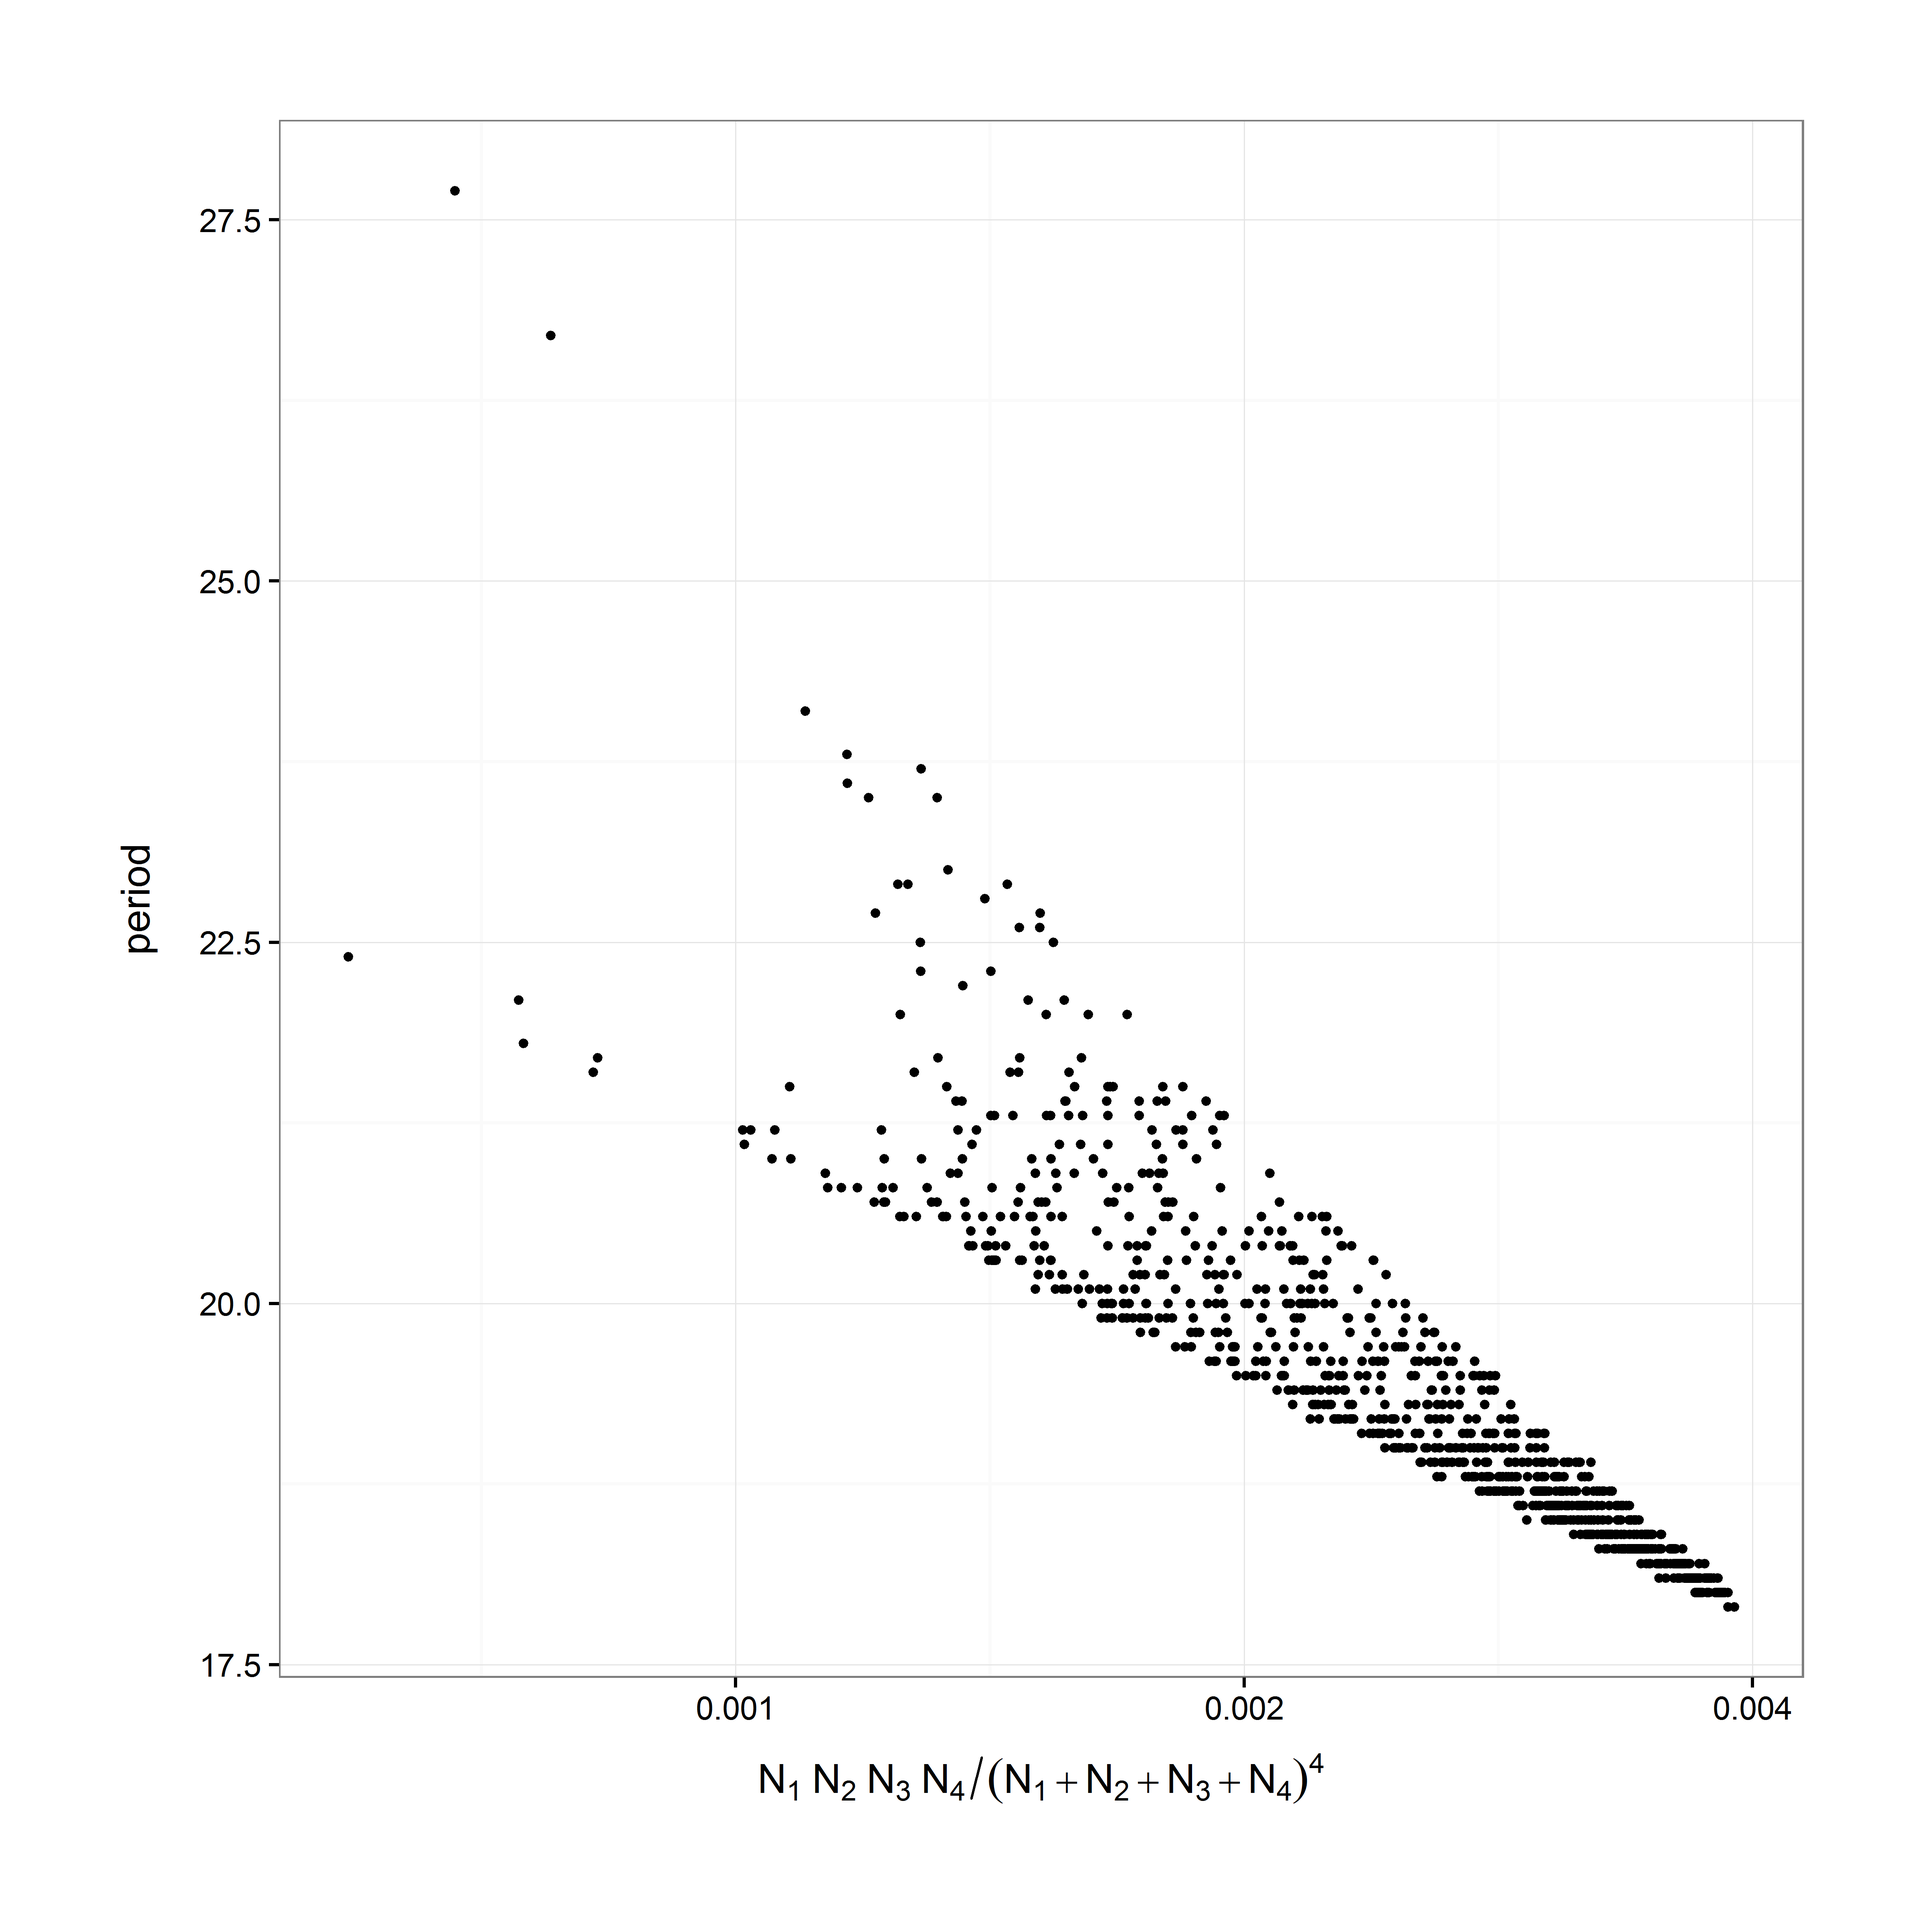
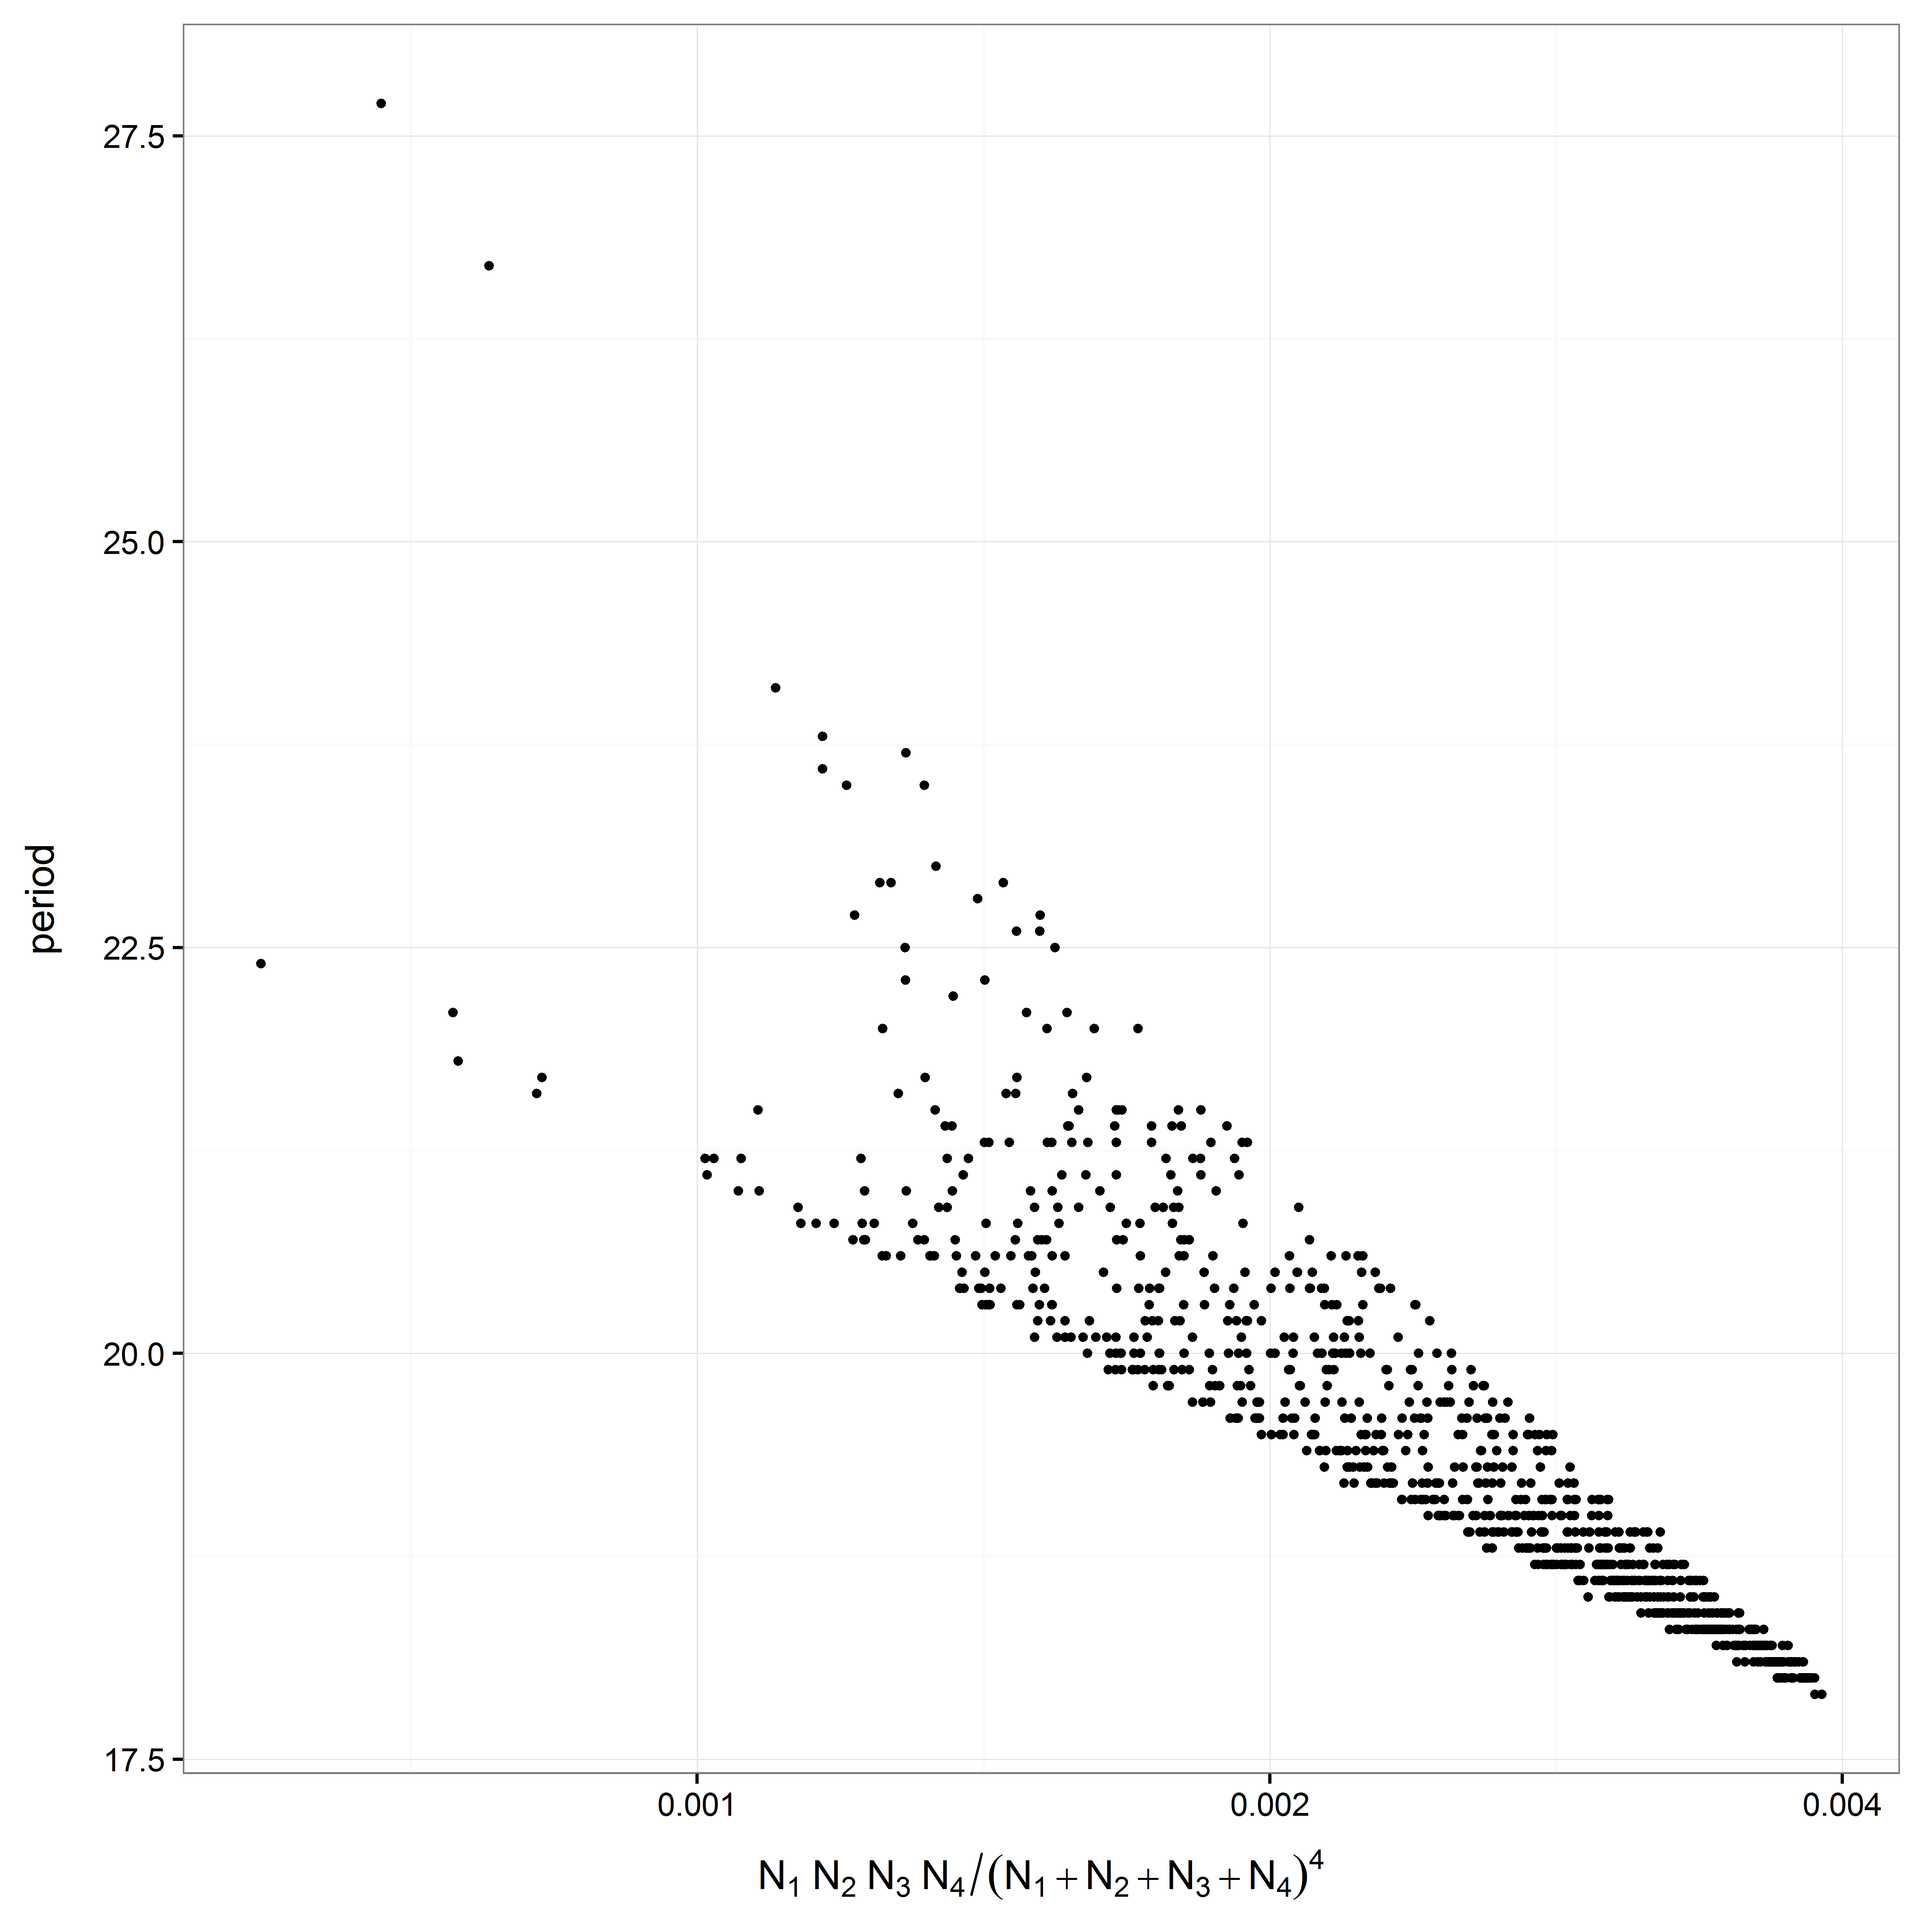
testing

diff --git a/gallery.md b/gallery.md
@@ -3,11 +3,12 @@ layout: page
 title: aRt gallery
 ---
 
-Under development... Inspired by this [blog](http://accidental-art.tumblr.com/)
+Lorem ipsum dolor sit amet, consectetur adipiscing elit. In in lorem et nisi dictum dictum vel sed mauris. Praesent efficitur pulvinar interdum. Integer ac egestas lectus. Suspendisse placerat auctor risus ac imperdiet. Etiam semper lorem ut elit mattis, sed molestie orci sagittis. Fusce urna orci, ornare eget nisl sed, ultricies commodo dui. Nunc ligula ex, aliquet et luctus vel, aliquet sit amet magna. Inspired by this [blog](http://accidental-art.tumblr.com/)
 
 <ul class="gallery">
   {% for image in site.photo_gallery reversed %}
     <h3 class="image-title">{{ image.title }} - {{ image.date | date_to_string }} </h3>
       <img src="{{ image.image_path }}" alt="{{ image.title }}"/>
+      {{ image.content }}
   {% endfor %}
 </ul>

diff --git a/_photo_gallery/2016-11-16-period.md b/_photo_gallery/2016-11-16-period.md
@@ -1,0 +1,12 @@
+---
+image_path: /images/period.png
+title: "Period of four competitors model"
+---
+
+1000 initial states were sampled using [Latin Hypercube Sampling](https://en.wikipedia.org/wiki/Latin_hypercube_sampling). Period of each limit cycle was calculated for each run and was plotted against its initial condition:
+
+$$
+N_1 N_2 N_3 N_4/(N_1 + N_2 + N_3 + N_4)^4
+$$
+
+For all simulations, parameters were kept constant: $(\alpha, \beta, \gamma) = (0.3, 1, 1.7)$. Refer to this [post](https://parksw3.github.io/2016/10/25/competition-model/) for further details.

diff --git a/_photo_gallery/2016-11-14-likelihood-surface.md b/_photo_gallery/2016-11-14-likelihood-surface.md
@@ -3,4 +3,4 @@ image_path: /images/likelihood.png
 title: "Likelihood surface"
 ---
 
-I'm still trying to figure this out...
+Likelihood surface of 100 simulated data sets.

diff --git a/_photo_gallery/2016-11-16-period-cycle.md b/_photo_gallery/2016-11-16-period-cycle.md
@@ -1,0 +1,6 @@
+---
+image_path: /images/epsilon60.png
+title: "Period of four competitors model"
+---
+
+need a description
